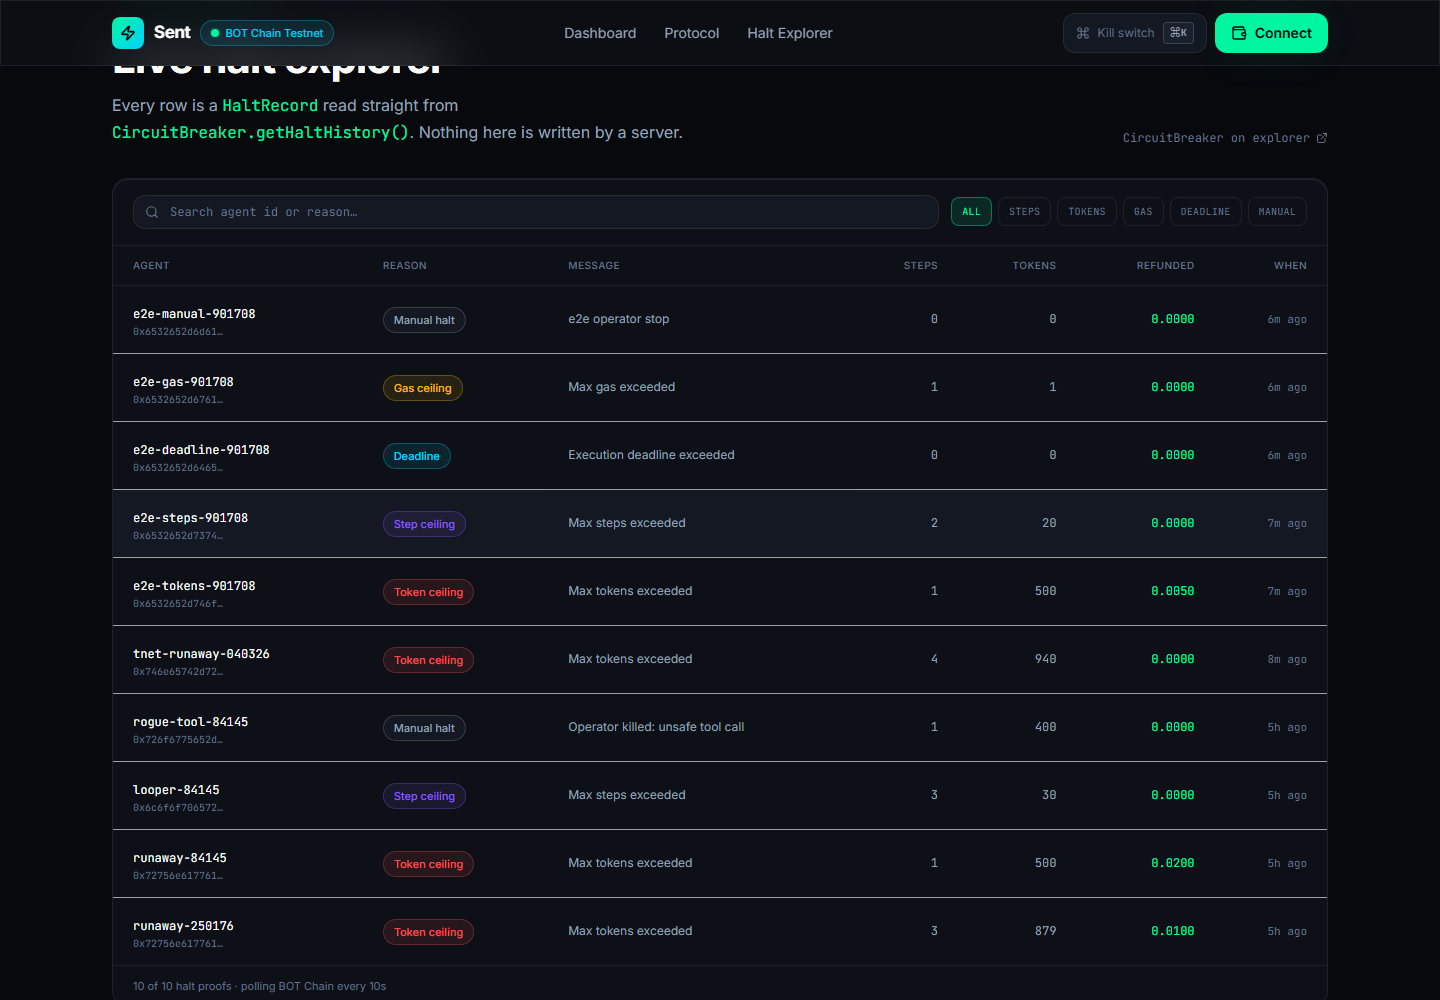
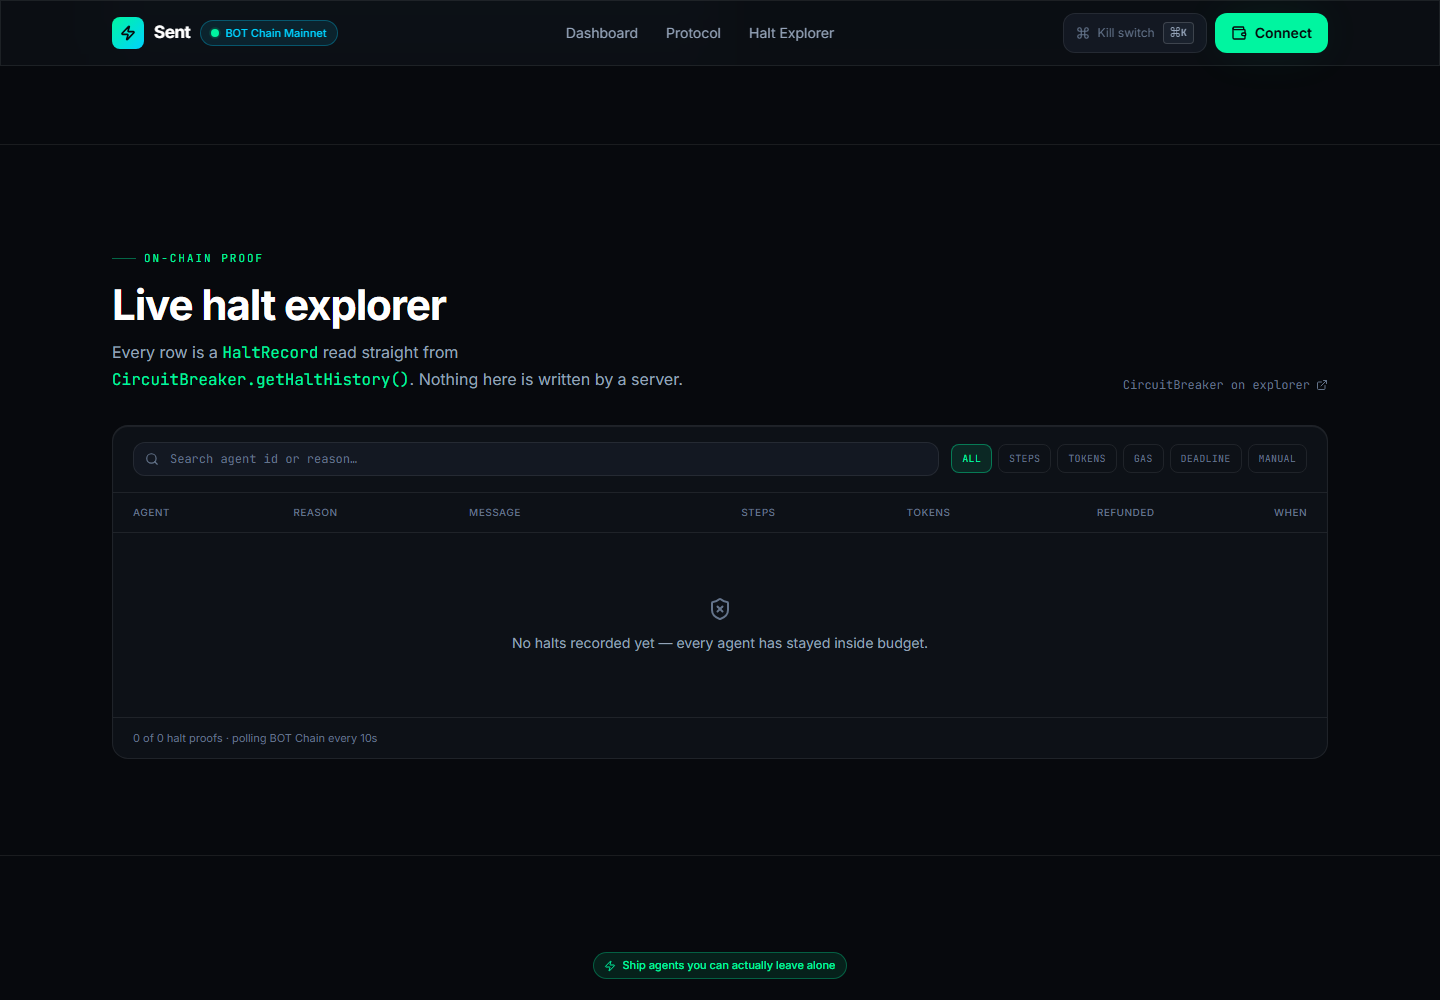
Point the frontend at BOT Chain Mainnet
The app now reads chainId 677 exclusively: nav reads "BOT Chain Mainnet",
footer reads chainId 677, explorer links resolve to scan.botchain.ai, and the
only RPC host contacted is rpc.botchain.ai. Verified in a real browser.

Fixes a mobile layout bug found while verifying. Spotlight's two cards sit in
a grid whose items default to min-width:auto, so once the simulated terminal
printed a long unbroken transaction hash the card could not shrink and forced
54px of horizontal overflow at 390px. It only appeared after a resize, which
is why earlier runs missed it. Grid items may now shrink and long hashes wrap.
Overflow at 390px is 0px.

Also makes the UI verifier honest on a freshly deployed chain. It asserted
that agents and halts were present, which mainnet legitimately has none of.
Emptiness is now detected from the empty-state copy rather than from table row
counts (the empty state is itself a row) or from agent-like labels in the
Spotlight terminal, which is a scripted mock and not chain data. On an empty
chain it asserts the empty states instead. 14/14 passing against mainnet.

diff --git a/frontend/src/components/Spotlight.tsx b/frontend/src/components/Spotlight.tsx
@@ -32,7 +32,7 @@ export function Spotlight({ data }: { data: SentData }) {
   return (
     <section className="relative py-8 pb-24">
       <div className="mx-auto max-w-7xl px-4 sm:px-6 lg:px-8">
-        <div className="grid gap-4 lg:grid-cols-2">
+        <div className="grid gap-4 lg:grid-cols-2 [&>*]:min-w-0">
           <ThresholdCard data={data} />
           <TerminalCard />
         </div>
@@ -159,7 +159,7 @@ function TerminalCard() {
         />
         <div
           ref={scrollRef}
-          className="h-[340px] overflow-y-auto bg-[#05070A] p-5 font-mono text-[11.5px] leading-relaxed"
+          className="h-[340px] overflow-y-auto bg-[#05070A] p-5 font-mono text-[11.5px] leading-relaxed break-all"
         >
           {lines.map((line, i) => (
             <div key={i} className={toneClass[line.tone ?? "dim"]}>

diff --git a/README.md b/README.md
@@ -143,7 +143,7 @@ Chromium against live testnet data:
 
 ```bash
 cd frontend
-VITE_RPC_URL=https://rpc.bohr.life VITE_CHAIN_ID=968 npm run build
+VITE_RPC_URL=https://rpc.botchain.ai VITE_CHAIN_ID=677 npm run build
 npx vite preview --port 4173 &
 node scripts/verify-ui.mjs
 ```
@@ -368,14 +368,14 @@ the read-only `wouldHalt` preview.
 ## Configuration
 
 Network values default to mainnet (`https://rpc.botchain.ai` / `677`) and testnet
-(`https://rpc.bohr.life` / `968`), overridable in `.env` (contracts) or with
+(`https://rpc.botchain.ai` / `677`), overridable in `.env` (contracts) or with
 `VITE_*` vars (frontend).
 
 Point the frontend at the live testnet deployment:
 
 ```bash
 cd frontend
-VITE_RPC_URL=https://rpc.bohr.life VITE_CHAIN_ID=968 npm run dev
+VITE_RPC_URL=https://rpc.botchain.ai VITE_CHAIN_ID=677 npm run dev
 ```
 
 ---
